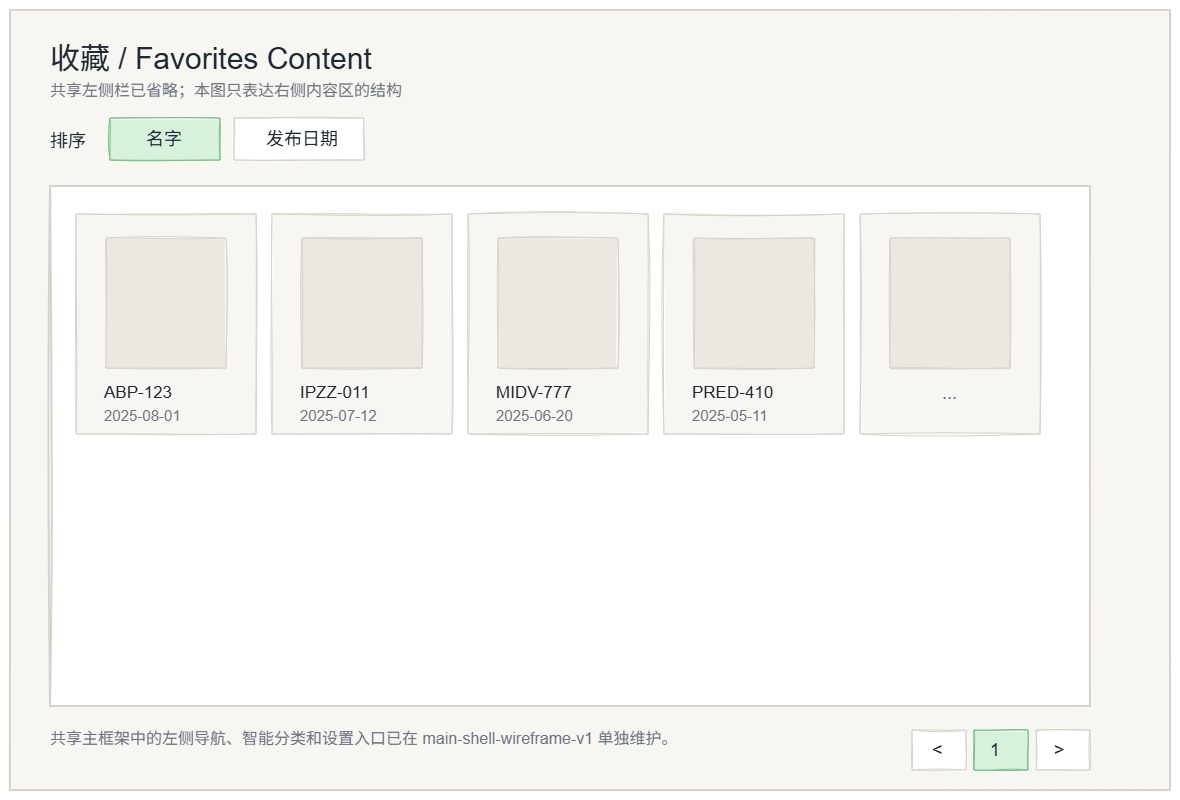
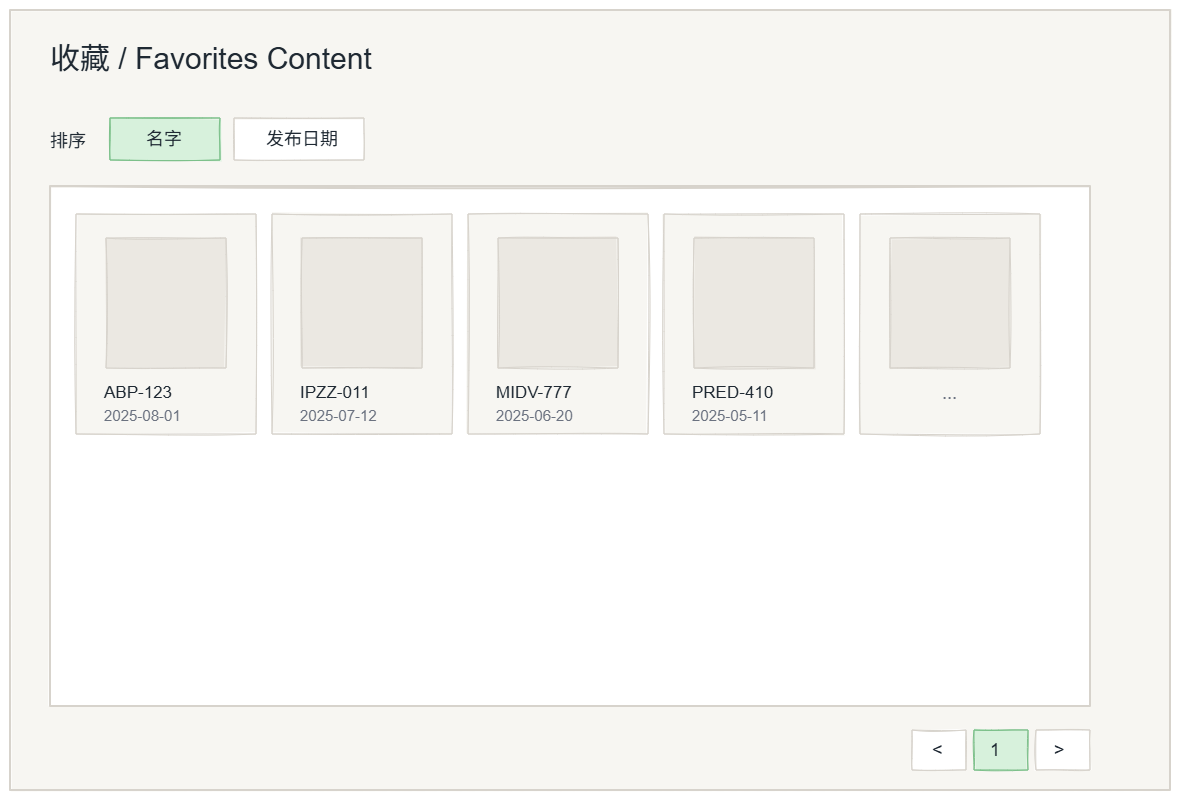
docs: refine favorites page spec

diff --git a/doc/UI/new/favorites-page.md b/doc/UI/new/favorites-page.md
@@ -1,31 +1,89 @@
 # Favorites Page Spec
 
-## Purpose
+## 页面目的
 
-- Provide a dedicated first-level page for favorite videos.
+- `Favorites Page` 是喜欢影片的一级聚合页。
+- 它负责集中展示被收藏的影片结果集，不承担库管理和演员浏览职责。
 
-## Layout
+## 页面范围
 
-- This page reuses the shared main shell defined in `main-shell.md`.
-- The page wireframe should focus on the right content area only.
-- Page title: `收藏` or `Favorites`
-- Top row:
-  - sort
-    - `名字`
-    - `发布日期`
-  - do not place extra actions on the top-right side of the content area in this phase
-- Main content:
-  - video card grid
-  - on a 1080p window, the default first-page density should show about 30 videos
-  - paging controls should sit in the bottom-right corner of the content area
+- 本页负责：
+  - 展示喜欢影片结果集
+  - 提供最小筛选、排序、刷新
+  - 打开影片详情页
+  - 保留从影片详情返回 Favorites 的链路
+- 本页不负责：
+  - 新建或删除媒体库
+  - 编辑媒体库
+  - 演员聚合
+  - 分类或系列聚合
 
-## Behavior
+## 数据来源
 
-- Reuse the existing favorites data logic.
-- This page does not provide a search entry in this phase.
-- Keep sort and paging behavior aligned with the current video list experience.
+- 喜欢影片结果集：
+  - `GET /api/videos/favorites`
+- 影片详情：
+  - `GET /api/videos/{videoId}`
 
-## Empty state
+## 布局
 
-- If there are no favorites, show a lightweight empty state.
-- No library CRUD actions belong here.
+- 本页复用 `main-shell.md` 定义的共享壳层。
+- 当前线框只表达右侧内容区。
+- 顶部保留轻量排序区：
+  - `名字`
+  - `发布日期`
+- 主体区域使用统一影片卡片网格。
+- 分页控件位于内容区右下角。
+
+## 元素清单
+
+| 元素 | 类型 | 常显 | 行为 | 数据来源 | 说明 |
+| --- | --- | --- | --- | --- | --- |
+| 页面标题 | 静态标题 | 是 | 无 | 固定文案 | 文案为 `收藏 / Favorites` |
+| 排序按钮组 | 轻量切换按钮 | 是 | 切换排序字段 | 当前查询状态 | 与统一结果页规则一致 |
+| 影片卡片网格 | 内容区 | 是 | 点击进入影片详情 | `GET /api/videos/favorites` | 复用统一影片卡片结构 |
+| 单张影片卡片 | 卡片 | 是 | 打开影片详情 | 当前列表项 | 显示 VID 与发布日期等基础信息 |
+| 分页控件 | 翻页控件 | 是 | 切换当前页 | 当前查询状态 | 位于右下角 |
+
+## 交互规则
+
+- 从左侧一级导航 `喜欢` 进入本页。
+- 本页默认按收藏结果集展示，不跨页显示库管理动作。
+- 影片卡片点击后进入影片详情页。
+- 从影片详情返回时应恢复当前 Favorites 的排序和分页状态。
+- 当前阶段不额外增加顶部右侧动作区。
+
+## 状态定义
+
+### Loading
+
+- 首次进入本页时显示结果集 loading。
+
+### Empty
+
+- 没有喜欢影片时显示轻量空态。
+- 空态不出现库管理动作。
+
+### Error
+
+- 结果集拉取失败时显示错误提示与刷新入口。
+
+## 性能与体验约束
+
+- 保持与 `library-page` 相同的影片卡片密度方向。
+- 当前阶段优先保证结果集浏览稳定，不在此页混入其它聚合逻辑。
+- 顶部交互保持轻量，避免做成复杂工作台。
+
+## 回归点
+
+- 能从左侧导航进入 Favorites。
+- 能正确显示喜欢影片结果集。
+- 排序切换有效。
+- 分页切换有效。
+- 影片详情返回链路正常。
+
+## 相关文档
+
+- 共享组件：`shared-components.md`
+- 主壳层：`main-shell.md`
+- 影片详情页：`video-detail-page.md`
